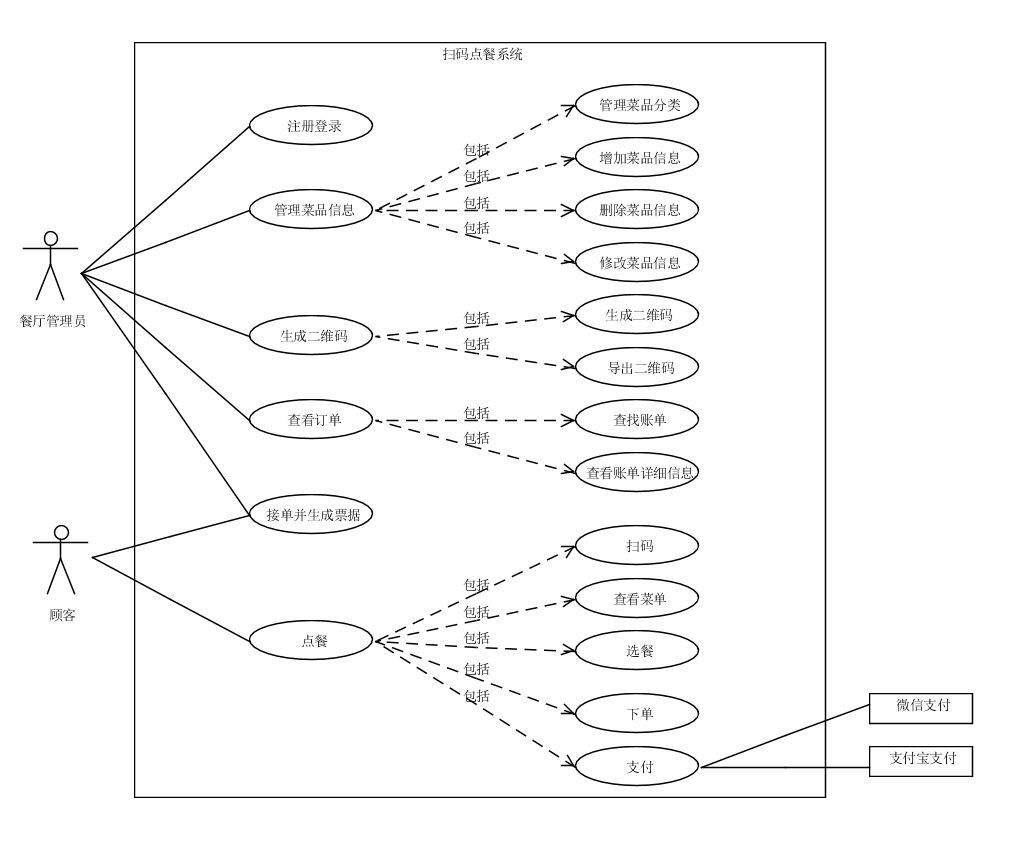
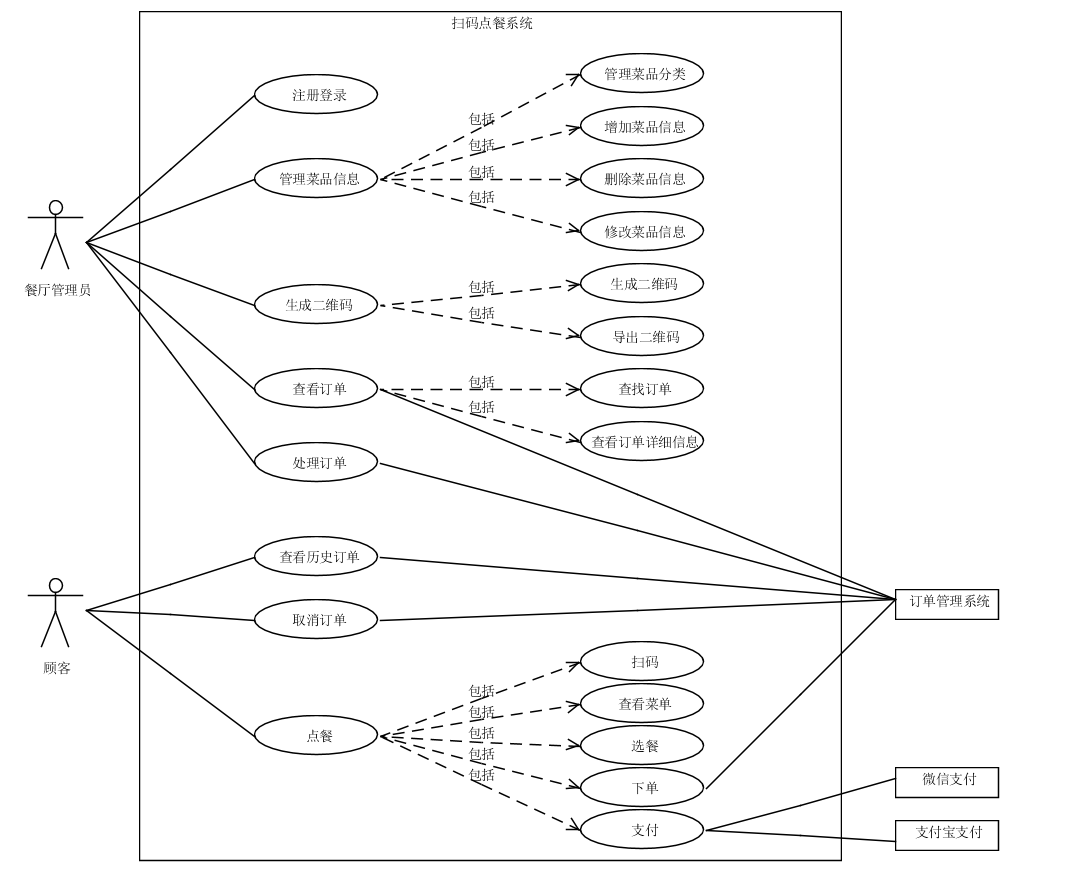
增加了‘取消订单和顾客查看历史订单用例

diff --git a/UseCases/README.md b/UseCases/README.md
@@ -8,9 +8,11 @@
  -  [注册登录](register_login.md)：一个餐厅作为一个店铺用户，可以注册、登录系统。
  -  [管理菜色信息](manage_dishes.md)：餐厅管理员可以对菜色信息进行管理，可以增加菜色信息（菜品分类、菜品）、删除菜色信息（菜品分类、菜品）、修改菜色信息（菜品分类、菜品）、查看菜色信息（菜品分类、菜品）。
  -  [生成每桌二维码](generate_QR_code.md)：餐厅管理员可以用系统为餐厅的每一张餐桌生成独特的二维码（供用户扫码点餐）。
- -  [查看订单](view_the_order.md)：餐厅管理员通过查询限制条件（订单时间、订单号、订单状态），查询得到符合条件的历史订单，并允许查看每一条历史订单的详细信息。
- -  [接单并生成票据](operate_order.md)：餐厅收到顾客的点餐信息（桌号、餐饮类型与数量、备注），以及用户的付款，可以选择拒绝或接受，若接受则根据信息打印票据。
+ -  [查看订单（商家端）](view_the_order.md)：餐厅管理员通过查询限制条件（订单时间、订单号、订单状态），查询得到符合条件的历史订单，并允许查看每一条历史订单的详细信息。
+ -  [处理订单](operate_order.md)：餐厅收到顾客的点餐信息（桌号、餐饮类型与数量、备注），以及用户的付款，可以选择拒绝或接受，若接受则根据信息打印票据。
  -  [点餐](make_order.md)：顾客进入餐厅就坐，用手机扫描贴在桌上二维码，手机显示出该餐厅的点餐菜单。顾客可以选择餐饮种类以及数量、添加备注，下单，点击结算、支付，完成点餐。
+ -  [查看历史订单（顾客端）](customer_history_order.md)：顾客可以在手机端查看自己之前下过的订单即历史订单。
+ -  [取消订单](delete_order.md)：顾客在下单成功之后，若商家还未接单或者未拒单，用户可以取消订单。
 
 **扩展用例：** 
 - 呼叫服务员：顾客在小程序端的点餐界面有个呼叫服务员按钮，一按餐厅端（网页端）的服务员便收到信息（桌号、时间）。
@@ -22,7 +24,7 @@
 - 餐厅营业：餐厅管理员可以查询近期账单（各菜色的销量、收入）。
 - 多人支付：当有多个顾客聚餐时，支持AA支付法，每个顾客支付各自的部分。
 
- 
+
 
 下面是主成功场景下顾客和商家使用的活动图，在更多活动图见img_activity文件夹。
 <img src="img_activity/活动图-顾客.png" width="440" height="700" alt="顾客"/> <img src="img_activity/活动图-商家.png" width="440" height="700" alt="商家"/>

diff --git a/UseCases/customer_history_order.md b/UseCases/customer_history_order.md
@@ -1,0 +1,16 @@
+![](img_use_case/customer_history_order.png)
+
+|     用例名称     | 查看订单                                     |
+| :----------: | :--------------------------------------- |
+|      范围      | web应用                                    |
+|      级别      | 用户目标                                     |
+|    主要参与者     | 顾客                                       |
+|   涉众及其关注点    | 顾客：希望能准确地看到自己的历史订单，以及详细的订单信息。            |
+|     前置条件     | 每次成功订单的信息（订单号、时间、金额、最终状态、餐桌号）都能被准确录入系统。  |
+| 成功保证（或后置条件）  | 准确、清晰地显示对应时间的订单信息。                       |
+| 主成功场景（或基本流程） | 1. 顾客在小程序端点击进入历史订单界面，显示历史订单。<br>2. 顾客点击某一订单，会跳转到该订单的详细信息界面。 |
+|  扩展（或替代流程）   | 1a. 顾客没有下过单：<br>    1. 显示为空。             |
+|     特殊需求     | 订单信息的显示要能适应各种手机屏幕大小，清晰地显示。               |
+|   技术和数据元表    | 1a. 从数据库中得到相应的信息，并以列表的形式显示在顾客的手机界面上。     |
+|     发生频率     | 可能会经常发生。                                 |
+|     未决问题     | 1.  故障恢复修改问题。                            |

diff --git a/UseCases/delete_order.md b/UseCases/delete_order.md
@@ -1,0 +1,16 @@
+![](img_use_case/delete_order.png)
+
+|     用例名称     | 生成每桌二维码                                  |
+| :----------: | :--------------------------------------- |
+|      范围      | web应用                                    |
+|      级别      | 用户目标                                     |
+|    主要参与者     | 顾客                                       |
+|   涉众及其关注点    | 顾客：希望能准确、简便地取消订单。                        |
+|     前置条件     | 顾客已经下好单，但是商家端未作出答复（未接受或者拒绝订单）。           |
+| 成功保证（或后置条件）  | 被选中的订单被成功取消，并且同步到系统和商家端。                 |
+| 主成功场景（或基本流程） | 1. 顾客选择一个已经下好单仍未被接受/拒绝的订单。<br>2. 顾客取消该选中订单。 |
+|  扩展（或替代流程）   | 2a. 顾客取消订单前商家端接受或拒绝了订单：<br>       顾客取消订单失败。 |
+|     特殊需求     | 1. 该订单仍未被商家端答复                           |
+|   技术和数据元表    | 1a. 每个订单有订单号。                            |
+|     发生频率     | 偶尔会发生。                                   |
+|     未决问题     | 为解决商家端和顾客的并发冲突问题。                        |
